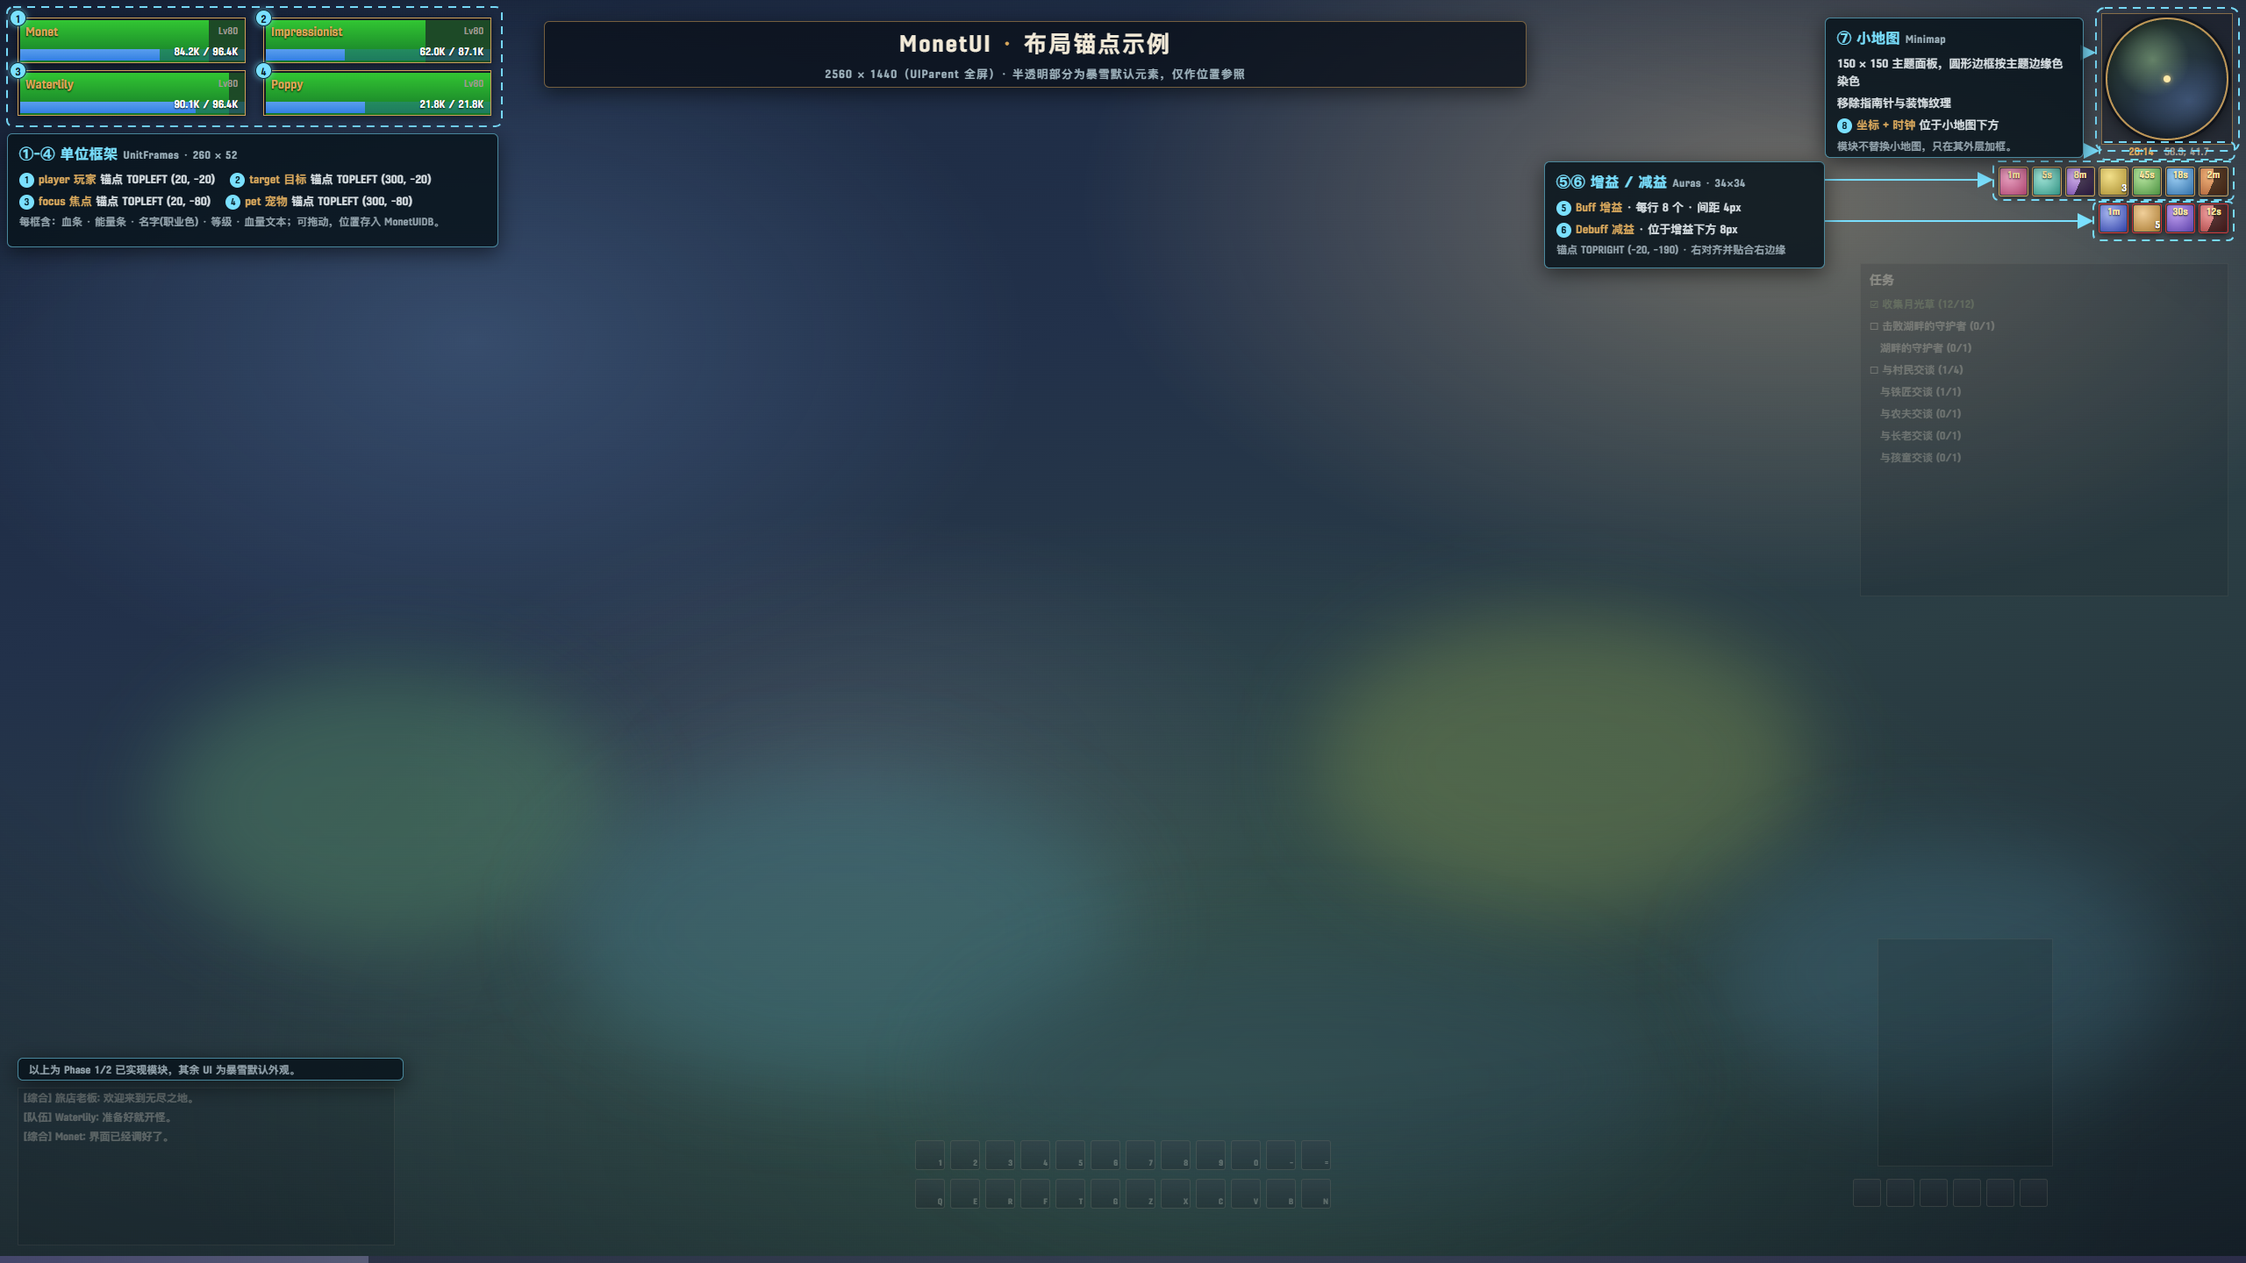
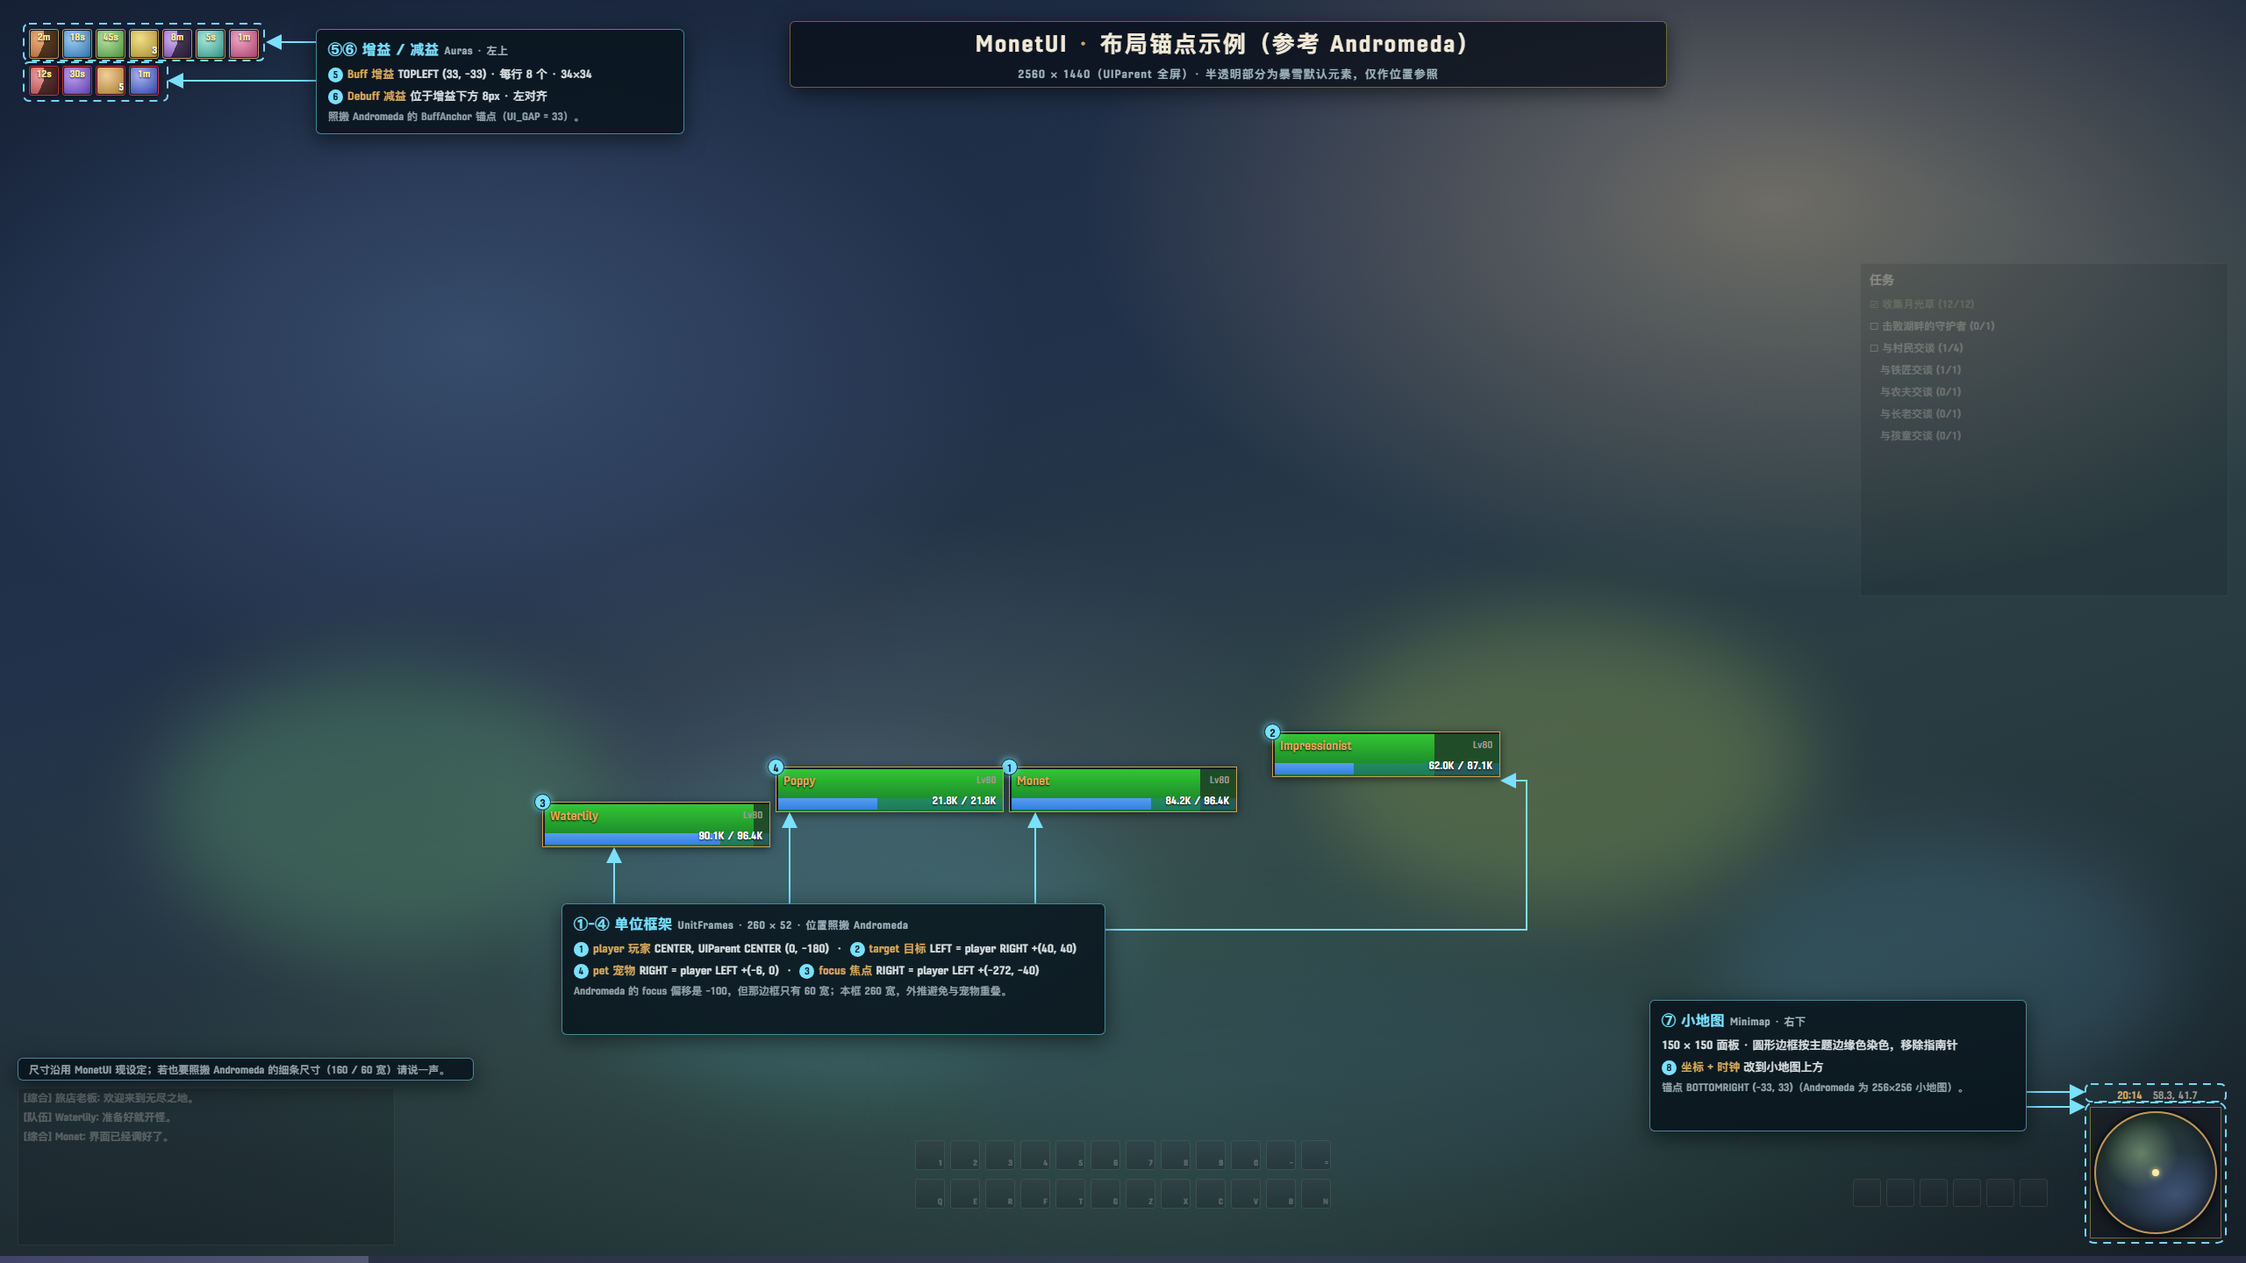
feat: 布局改为参考 Andromeda（player 居中偏下 / 小地图右下 / 光环左上）
坐标照搬 Andromeda（UI_GAP = 33）：
- player  CENTER, UIParent CENTER (0, -180)
- target  LEFT   = player RIGHT +(40, 40)
- pet     RIGHT  = player LEFT  +(-6, 0)
- focus   RIGHT  = player LEFT  +(-272, -40)
  （Andromeda 为 -100，但其 focus 框仅 60 宽；本框 260 宽需外推避免与宠物重叠）
- 小地图  BOTTOMRIGHT (33, 33)，坐标/时钟改到小地图上方
- 增益/减益 TOPLEFT (33, -33)，向左上角对齐、向右生长

实现：
- UnitFrames: 位置支持 relativeTo（锚到其它单位框），拖动保存相对锚点，
  拖动 player 时依赖它的框自动跟随
- Minimap: 新增 MoveCluster()，pcall 包裹以防污点，失败仅提示一次
- BuffFrame: 按钮改回从容器左上角向右/下生长；FitContainer 保留

docs/mockup 同步更新为 Andromeda 布局。

diff --git a/docs/mockup/layout-2560x1440.html b/docs/mockup/layout-2560x1440.html
@@ -43,7 +43,7 @@ body{
   background:radial-gradient(120% 90% at 50% 45%, transparent 45%, rgba(4,8,14,.62) 100%); }
 
 /* ------------------------------------------------------- context (dim) ---- */
-.ctx{ position:absolute; opacity:.34; }
+.ctx{ position:absolute; opacity:.32; }
 
 .abtn{ position:absolute; width:34px; height:34px; border:1px solid #6b6a63; border-radius:3px;
   background:linear-gradient(180deg,rgba(58,62,74,.85),rgba(28,31,40,.9)); }
@@ -93,9 +93,9 @@ body{
   background:conic-gradient(from 0deg, rgba(0,0,0,.62) 0deg 205deg, rgba(0,0,0,0) 205deg 360deg); }
 
 /* ------------------------------------------------------------- minimap ---- */
-.mm-panel{ position:absolute; left:2395px; top:15px; width:150px; height:150px;
+.mm-panel{ position:absolute; left:2382px; top:1262px; width:150px; height:150px;
   background:rgba(var(--panel),.55); border:1px solid rgba(var(--edge),.55); }
-.mm{ position:absolute; left:2400px; top:20px; width:140px; height:140px; border-radius:50%;
+.mm{ position:absolute; left:2387px; top:1267px; width:140px; height:140px; border-radius:50%;
   background:
     radial-gradient(60px 60px at 38% 34%, rgba(150,190,140,.55), transparent 70%),
     radial-gradient(90px 70px at 68% 68%, rgba(90,120,170,.5), transparent 72%),
@@ -104,7 +104,7 @@ body{
   box-shadow:0 0 0 3px rgba(12,16,24,.75), 0 4px 16px rgba(0,0,0,.6), inset 0 0 24px rgba(0,0,0,.6); }
 .mm .nub{ position:absolute; left:50%; top:50%; width:8px; height:8px; margin:-4px 0 0 -4px;
   border-radius:50%; background:#ffe9a8; box-shadow:0 0 6px #ffd97a; }
-.mmtext{ position:absolute; left:2395px; top:164px; width:154px; height:18px;
+.mmtext{ position:absolute; left:2382px; top:1240px; width:154px; height:18px;
   display:flex; align-items:center; justify-content:center; gap:12px; font-size:12px; }
 .mmtext .clock{ color:rgb(var(--edge)); }
 .mmtext .coord{ color:rgb(var(--neutral)); }
@@ -114,13 +114,13 @@ body{
   background:rgba(8,20,28,.86); box-shadow:0 6px 24px rgba(0,0,0,.55); padding:10px 13px; }
 .box h3{ margin:0 0 7px; font-size:16px; font-weight:normal; color:rgb(var(--accent)); letter-spacing:.5px; }
 .box h3 em{ font-style:normal; color:#9fb3bd; font-size:12px; margin-left:6px; }
-.box p{ margin:0 0 5px; font-size:13px; color:#d7dee2; line-height:1.55; }
+.box p{ margin:0 0 5px; font-size:13px; color:#d7dee2; line-height:1.5; }
 .box p:last-child{ margin-bottom:0; }
 .box .k{ color:rgb(var(--edge)); }
 .box .dim{ color:#93a3ac; font-size:12px; }
 .box .n{ display:inline-block; width:17px; height:17px; line-height:17px; text-align:center;
   border-radius:50%; background:rgb(var(--accent)); color:#062028; font-size:11px; margin-right:5px; }
-.banner{ position:absolute; left:620px; top:24px; width:1120px; height:76px;
+.banner{ position:absolute; left:900px; top:24px; width:1000px; height:76px;
   border:1px solid rgba(var(--edge),.5); border-radius:6px; background:rgba(10,16,26,.8);
   display:flex; flex-direction:column; align-items:center; justify-content:center;
   box-shadow:0 6px 24px rgba(0,0,0,.55); }
@@ -155,7 +155,6 @@ svg.ann{ position:absolute; inset:0; width:2560px; height:1440px; pointer-events
       <h4>任务</h4>
       <p class="done">☑ 收集月光草 (12/12)</p>
       <p>☐ 击败湖畔的守护者 (0/1)</p>
-      <p>&nbsp;&nbsp;&nbsp;湖畔的守护者 (0/1)</p>
       <p>☐ 与村民交谈 (1/4)</p>
       <p>&nbsp;&nbsp;&nbsp;与铁匠交谈 (1/1)</p>
       <p>&nbsp;&nbsp;&nbsp;与农夫交谈 (0/1)</p>
@@ -195,13 +194,11 @@ svg.ann{ position:absolute; inset:0; width:2560px; height:1440px; pointer-events
     <div class="abtn" style="left:2226px; top:1344px; width:32px; height:32px;"></div>
     <div class="abtn" style="left:2264px; top:1344px; width:32px; height:32px;"></div>
     <div class="abtn" style="left:2302px; top:1344px; width:32px; height:32px;"></div>
-
-    <div style="position:absolute; left:2140px; top:1070px; width:200px; height:260px;
-      border:1px solid rgba(120,118,110,.5); background:rgba(10,12,18,.4);"></div>
   </div>
 
   <!-- ======================= MonetUI: unit frames ========================= -->
-  <div class="uf" style="left:20px; top:20px;">
+  <!-- player  CENTER UIParent (0,-180) -->
+  <div class="uf" style="left:1150px; top:874px;">
     <div class="health"><i style="width:84%"></i></div>
     <div class="power"><i style="width:62%"></i></div>
     <div class="name">Monet</div><div class="lvl">Lv80</div>
@@ -209,7 +206,8 @@ svg.ann{ position:absolute; inset:0; width:2560px; height:1440px; pointer-events
     <div class="badge">1</div>
   </div>
 
-  <div class="uf" style="left:300px; top:20px;">
+  <!-- target  LEFT = player RIGHT +(40,40) -->
+  <div class="uf" style="left:1450px; top:834px;">
     <div class="health"><i style="width:71%"></i></div>
     <div class="power"><i style="width:35%"></i></div>
     <div class="name">Impressionist</div><div class="lvl">Lv80</div>
@@ -217,7 +215,8 @@ svg.ann{ position:absolute; inset:0; width:2560px; height:1440px; pointer-events
     <div class="badge">2</div>
   </div>
 
-  <div class="uf" style="left:20px; top:80px;">
+  <!-- focus  RIGHT = player LEFT -(272,-40) -->
+  <div class="uf" style="left:618px; top:914px;">
     <div class="health"><i style="width:93%"></i></div>
     <div class="power"><i style="width:78%"></i></div>
     <div class="name">Waterlily</div><div class="lvl">Lv80</div>
@@ -225,7 +224,8 @@ svg.ann{ position:absolute; inset:0; width:2560px; height:1440px; pointer-events
     <div class="badge">3</div>
   </div>
 
-  <div class="uf" style="left:300px; top:80px;">
+  <!-- pet  RIGHT = player LEFT -(6,0) -->
+  <div class="uf" style="left:884px; top:874px;">
     <div class="health"><i style="width:100%"></i></div>
     <div class="power"><i style="width:44%"></i></div>
     <div class="name">Poppy</div><div class="lvl">Lv80</div>
@@ -233,24 +233,24 @@ svg.ann{ position:absolute; inset:0; width:2560px; height:1440px; pointer-events
     <div class="badge">4</div>
   </div>
 
-  <!-- ======================= MonetUI: minimap ============================= -->
+  <!-- ======================= MonetUI: minimap (bottom-right) ============== -->
   <div class="mm-panel"></div>
   <div class="mm"><div class="nub"></div></div>
   <div class="mmtext"><span class="clock">20:14</span><span class="coord">58.3, 41.7</span></div>
 
-  <!-- ======================= MonetUI: buffs / debuffs ===================== -->
-  <div class="aura" style="left:2506px; top:190px;"><div class="ic" style="background:radial-gradient(circle at 35% 30%,#f0b27a,#a85c33);"></div><div class="swipe"></div><div class="t">2m</div></div>
-  <div class="aura" style="left:2468px; top:190px;"><div class="ic" style="background:radial-gradient(circle at 35% 30%,#9ed0f5,#2f6ea8);"></div><div class="t">18s</div></div>
-  <div class="aura" style="left:2430px; top:190px;"><div class="ic" style="background:radial-gradient(circle at 35% 30%,#b8e6a0,#4a8f3f);"></div><div class="t">45s</div></div>
-  <div class="aura" style="left:2392px; top:190px;"><div class="ic" style="background:radial-gradient(circle at 35% 30%,#f2e08a,#a88b2f);"></div><div class="c">3</div></div>
-  <div class="aura" style="left:2354px; top:190px;"><div class="ic" style="background:radial-gradient(circle at 35% 30%,#d7b6f0,#6a3f9f);"></div><div class="swipe"></div><div class="t">8m</div></div>
-  <div class="aura" style="left:2316px; top:190px;"><div class="ic" style="background:radial-gradient(circle at 35% 30%,#a8ecdf,#2f8f80);"></div><div class="t">5s</div></div>
-  <div class="aura" style="left:2278px; top:190px;"><div class="ic" style="background:radial-gradient(circle at 35% 30%,#f0a8c8,#a83f6a);"></div><div class="t">1m</div></div>
+  <!-- ======================= MonetUI: buffs / debuffs (top-left) ========== -->
+  <div class="aura" style="left:33px; top:33px;"><div class="ic" style="background:radial-gradient(circle at 35% 30%,#f0b27a,#a85c33);"></div><div class="swipe"></div><div class="t">2m</div></div>
+  <div class="aura" style="left:71px; top:33px;"><div class="ic" style="background:radial-gradient(circle at 35% 30%,#9ed0f5,#2f6ea8);"></div><div class="t">18s</div></div>
+  <div class="aura" style="left:109px; top:33px;"><div class="ic" style="background:radial-gradient(circle at 35% 30%,#b8e6a0,#4a8f3f);"></div><div class="t">45s</div></div>
+  <div class="aura" style="left:147px; top:33px;"><div class="ic" style="background:radial-gradient(circle at 35% 30%,#f2e08a,#a88b2f);"></div><div class="c">3</div></div>
+  <div class="aura" style="left:185px; top:33px;"><div class="ic" style="background:radial-gradient(circle at 35% 30%,#d7b6f0,#6a3f9f);"></div><div class="swipe"></div><div class="t">8m</div></div>
+  <div class="aura" style="left:223px; top:33px;"><div class="ic" style="background:radial-gradient(circle at 35% 30%,#a8ecdf,#2f8f80);"></div><div class="t">5s</div></div>
+  <div class="aura" style="left:261px; top:33px;"><div class="ic" style="background:radial-gradient(circle at 35% 30%,#f0a8c8,#a83f6a);"></div><div class="t">1m</div></div>
 
-  <div class="aura debuff" style="left:2506px; top:232px;"><div class="ic" style="background:radial-gradient(circle at 35% 30%,#f0a0a0,#a83f3f);"></div><div class="swipe"></div><div class="t">12s</div></div>
-  <div class="aura debuff" style="left:2468px; top:232px;"><div class="ic" style="background:radial-gradient(circle at 35% 30%,#c0a0f0,#5a3fa8);"></div><div class="t">30s</div></div>
-  <div class="aura debuff" style="left:2430px; top:232px;"><div class="ic" style="background:radial-gradient(circle at 35% 30%,#f0cf9a,#a8782f);"></div><div class="c">5</div></div>
-  <div class="aura debuff" style="left:2392px; top:232px;"><div class="ic" style="background:radial-gradient(circle at 35% 30%,#a8b8f0,#2f3fa8);"></div><div class="t">1m</div></div>
+  <div class="aura debuff" style="left:33px; top:75px;"><div class="ic" style="background:radial-gradient(circle at 35% 30%,#f0a0a0,#a83f3f);"></div><div class="swipe"></div><div class="t">12s</div></div>
+  <div class="aura debuff" style="left:71px; top:75px;"><div class="ic" style="background:radial-gradient(circle at 35% 30%,#c0a0f0,#5a3fa8);"></div><div class="t">30s</div></div>
+  <div class="aura debuff" style="left:109px; top:75px;"><div class="ic" style="background:radial-gradient(circle at 35% 30%,#f0cf9a,#a8782f);"></div><div class="c">5</div></div>
+  <div class="aura debuff" style="left:147px; top:75px;"><div class="ic" style="background:radial-gradient(circle at 35% 30%,#a8b8f0,#2f3fa8);"></div><div class="t">1m</div></div>
 
   <!-- ======================= annotations ================================= -->
   <svg class="ann" viewBox="0 0 2560 1440" xmlns="http://www.w3.org/2000/svg">
@@ -260,51 +260,53 @@ svg.ann{ position:absolute; inset:0; width:2560px; height:1440px; pointer-events
       </marker>
     </defs>
     <g fill="none" stroke="rgb(122,224,255)" stroke-width="2" stroke-dasharray="9 7" opacity=".95">
-      <rect x="8"   y="8"   width="564" height="136" rx="7"/>
-      <rect x="2272" y="184" width="274" height="44"  rx="6"/>
-      <rect x="2386" y="230" width="160" height="44"  rx="6"/>
-      <rect x="2389" y="9"   width="163" height="163" rx="10"/>
-      <rect x="2393" y="162" width="154" height="20"  rx="6"/>
+      <rect x="27"    y="27"   width="274" height="42"  rx="6"/>
+      <rect x="27"    y="71"   width="164" height="44"  rx="6"/>
+      <rect x="2377"  y="1257" width="160" height="160" rx="10"/>
+      <rect x="2377"  y="1236" width="160" height="20"  rx="6"/>
     </g>
     <g fill="none" stroke="rgb(122,224,255)" stroke-width="2" marker-end="url(#ar)">
-      <path d="M2080,205 L2268,205"/>
-      <path d="M2080,252 L2382,252"/>
-      <path d="M2375,60  L2385,60"/>
-      <path d="M2375,172 L2389,172"/>
+      <path d="M360,48  L307,48"/>
+      <path d="M360,92  L195,92"/>
+      <path d="M2310,1245 L2373,1245"/>
+      <path d="M2310,1262 L2373,1262"/>
+      <path d="M1180,1030 L1180,930"/>
+      <path d="M900,1030  L900,930"/>
+      <path d="M700,1030  L700,970"/>
+      <path d="M1260,1060 L1740,1060 L1740,890 L1714,890"/>
     </g>
   </svg>
 
-  <div class="box" style="left:8px; top:152px; width:560px; height:130px;">
-    <h3>①-④ 单位框架<em>UnitFrames · 260 × 52</em></h3>
-    <p><span class="n">1</span><span class="k">player 玩家</span> 锚点 TOPLEFT (20, -20) &nbsp;&nbsp;
-       <span class="n">2</span><span class="k">target 目标</span> 锚点 TOPLEFT (300, -20)</p>
-    <p><span class="n">3</span><span class="k">focus 焦点</span> 锚点 TOPLEFT (20, -80) &nbsp;&nbsp;
-       <span class="n">4</span><span class="k">pet 宠物</span> 锚点 TOPLEFT (300, -80)</p>
-    <p class="dim">每框含：血条 · 能量条 · 名字(职业色) · 等级 · 血量文本；可拖动，位置存入 MonetUIDB。</p>
+  <div class="box" style="left:640px; top:1030px; width:620px; height:150px;">
+    <h3>①-④ 单位框架<em>UnitFrames · 260 × 52 · 位置照搬 Andromeda</em></h3>
+    <p><span class="n">1</span><span class="k">player 玩家</span> CENTER, UIParent CENTER (0, -180) &nbsp;·&nbsp;
+       <span class="n">2</span><span class="k">target 目标</span> LEFT = player RIGHT +(40, 40)</p>
+    <p><span class="n">4</span><span class="k">pet 宠物</span> RIGHT = player LEFT +(-6, 0) &nbsp;·&nbsp;
+       <span class="n">3</span><span class="k">focus 焦点</span> RIGHT = player LEFT +(-272, -40)</p>
+    <p class="dim">Andromeda 的 focus 偏移是 -100，但那边框只有 60 宽；本框 260 宽，外推避免与宠物重叠。</p>
   </div>
 
-  <div class="box" style="left:1760px; top:184px; width:320px; height:122px;">
-    <h3>⑤⑥ 增益 / 减益<em>Auras · 34×34</em></h3>
-    <p><span class="n">5</span><span class="k">Buff 增益</span> · 每行 8 个 · 间距 4px</p>
-    <p><span class="n">6</span><span class="k">Debuff 减益</span> · 位于增益下方 8px</p>
-    <p class="dim">锚点 TOPRIGHT (-20, -190) · 右对齐并贴合右边缘</p>
+  <div class="box" style="left:360px; top:33px; width:420px; height:120px;">
+    <h3>⑤⑥ 增益 / 减益<em>Auras · 左上</em></h3>
+    <p><span class="n">5</span><span class="k">Buff 增益</span> TOPLEFT (33, -33) · 每行 8 个 · 34×34</p>
+    <p><span class="n">6</span><span class="k">Debuff 减益</span> 位于增益下方 8px · 左对齐</p>
+    <p class="dim">照搬 Andromeda 的 BuffAnchor 锚点（UI_GAP = 33）。</p>
   </div>
 
-  <div class="box" style="left:2080px; top:20px; width:295px; height:160px;">
-    <h3>⑦ 小地图<em>Minimap</em></h3>
-    <p>150 × 150 主题面板，圆形边框按主题边缘色染色</p>
-    <p>移除指南针与装饰纹理</p>
-    <p><span class="n">8</span><span class="k">坐标 + 时钟</span> 位于小地图下方</p>
-    <p class="dim">模块不替换小地图，只在其外层加框。</p>
+  <div class="box" style="left:1880px; top:1140px; width:430px; height:150px;">
+    <h3>⑦ 小地图<em>Minimap · 右下</em></h3>
+    <p>150 × 150 面板 · 圆形边框按主题边缘色染色，移除指南针</p>
+    <p><span class="n">8</span><span class="k">坐标 + 时钟</span> 改到小地图<b>上方</b></p>
+    <p class="dim">锚点 BOTTOMRIGHT (-33, 33)（Andromeda 为 256×256 小地图）。</p>
   </div>
 
   <div class="banner">
-    <h1>MonetUI <b>·</b> 布局锚点示例</h1>
+    <h1>MonetUI <b>·</b> 布局锚点示例（参考 Andromeda）</h1>
     <span>2560 × 1440（UIParent 全屏）· 半透明部分为暴雪默认元素，仅作位置参照</span>
   </div>
 
-  <div class="box" style="left:20px; top:1206px; width:440px; height:26px; padding:4px 12px;">
-    <p class="dim" style="margin:0;">以上为 Phase 1/2 已实现模块，其余 UI 为暴雪默认外观。</p>
+  <div class="box" style="left:20px; top:1206px; width:520px; height:26px; padding:4px 12px;">
+    <p class="dim" style="margin:0;">尺寸沿用 MonetUI 现设定；若也要照搬 Andromeda 的细条尺寸（160 / 60 宽）请说一声。</p>
   </div>
 
 </div>
